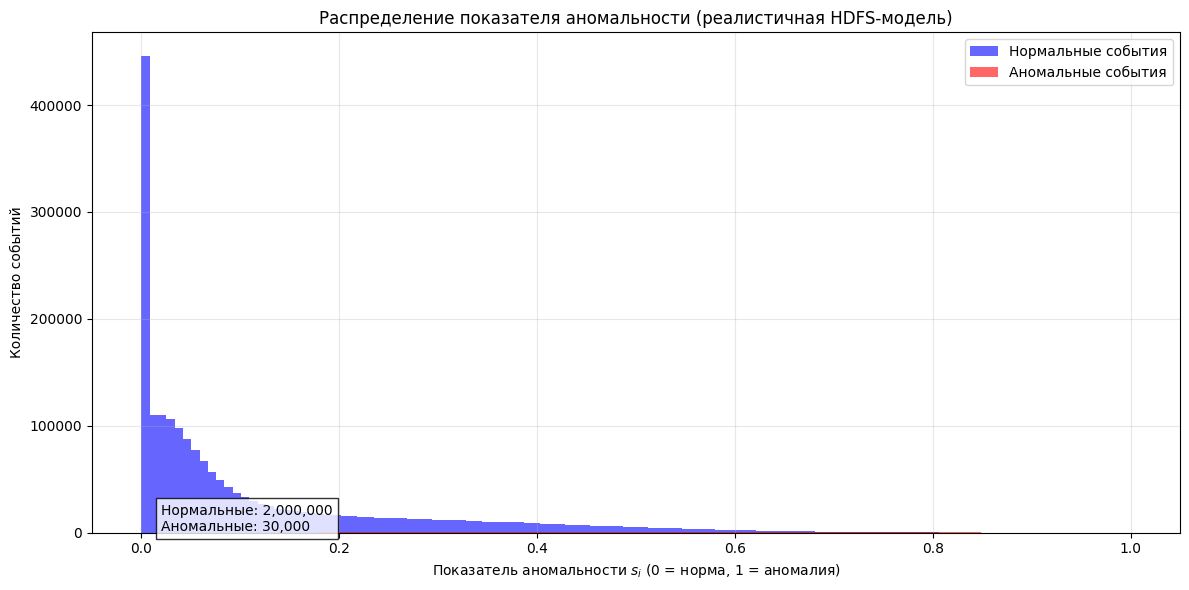
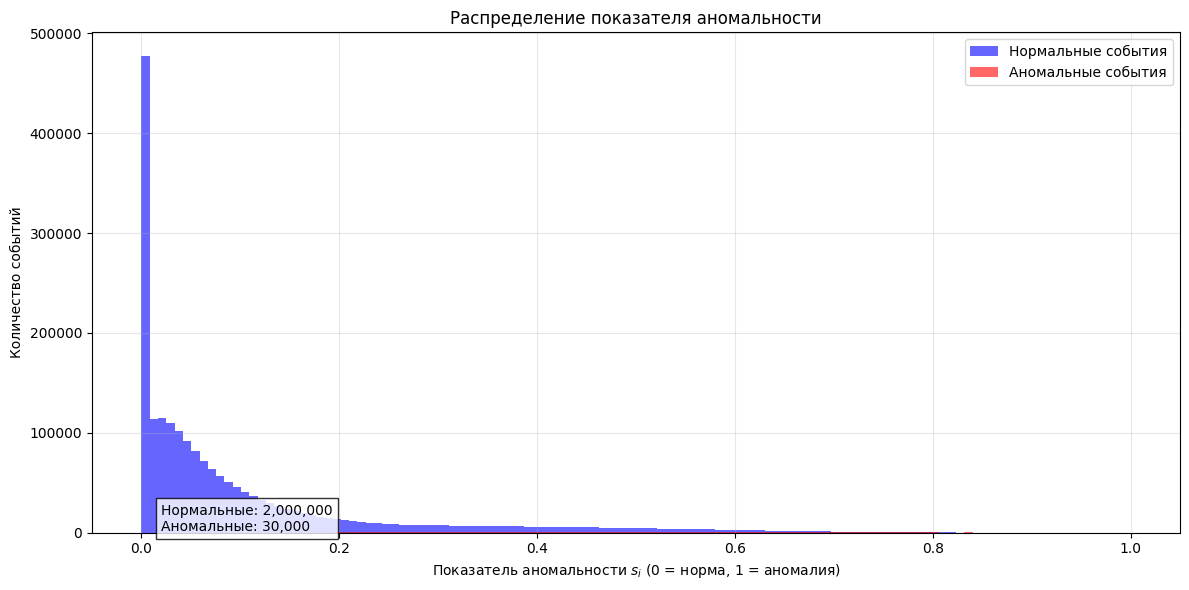
fix: пофиксил содержание

diff --git a/docs/contents/3-2-design/06-solution-mathematical-problem.tex b/docs/contents/3-2-design/06-solution-mathematical-problem.tex
@@ -1,9 +1,3 @@
-\section{Решения математической постановки задачи}
-
-В данном разделе рассматриваются методы и подходы, используемые для решения сформулированной математической задачи обнаружения аномалий в Kubernetes-кластере. На основе ранее выполненного анализа существующих методов и особенностей предметной области определяется практическая реализация предложенной модели, включая этапы подготовки данных, выбора архитектуры нейронной сети, обучения модели и оценки её качества.
-
-В рамках данного раздела подробно описываются этапы обработки audit-логов Kubernetes, формирование признакового пространства, выбор и настройка архитектур нейронных сетей, а также методы оценки качества обнаружения аномалий.
-
 \subsection{Предобработка и кодирование событий audit-логов}
 
 Целью предобработки является переход от сырой последовательности структурированных записей audit-лога $\mathcal{L} = \{e_1, \dots, e_T\}$ к единому признаковому представлению. Для обучения нейронной сети каждое событие $e_t$ кодируется в числовой вектор с помощью функции $\Phi$.
@@ -39,7 +33,7 @@
 
 Поле \texttt{userAgent} содержит описание клиентского приложения; для него имеет смысл использовать one-hot-кодирование для наиболее часто используемых агентов в компании, например \{\texttt{kubectl}, \texttt{helm}, \texttt{controller}, \texttt{browser}, \texttt{curl}, \texttt{other}\}, а все прочие значения приводить к этим типам регулярными выражениями. Ожидаемая размерность: $\dim(\Phi_{\text{userAgent}}) = 6$.
 
-Поле \texttt{objectRef.resource} вместе с \texttt{objectRef.subresource} образуют токен вида \texttt{resource/subresource} (например, \texttt{pods/status}). Такая строка кодируется с помощью hashing trick с размерностью $H_{\text{res}}=32$. Дополнительно вводится булев признак \texttt{sensitive}, указывающий на обращение к чувствительным ресурсам (например, \texttt{secrets}, \texttt{serviceaccounts}, \texttt{tokenreviews}). Ожидаемая размерность кодирования ресурсов: $\dim(\Phi_{\text{resource}})=H_{\text{res}}+1=33$.
+Поле \texttt{objectRef.resource} вместе с \texttt{objectRef.subresource} образуют токен вида \texttt{resource/subresource} (например, \texttt{pods/status}). Такая строка кодируется с помощью hashing trick с размерностью $H_{\text{res}}=64$. Дополнительно вводится булев признак \texttt{sensitive}, указывающий на обращение к чувствительным ресурсам (например, \texttt{secrets}, \texttt{serviceaccounts}, \texttt{tokenreviews}). Ожидаемая размерность кодирования ресурсов: $\dim(\Phi_{\text{resource}})=H_{\text{res}}+1=65$.
 
 Поле \texttt{objectRef.namespace} определяет пространство имён, к которому был выполнен запрос. Для кодирования используется набор булевых индикаторов:
 
@@ -211,7 +205,13 @@
 
 Умеренная зависимость наблюдается между признаками \texttt{username} и \texttt{userAgent} (0.38). Это может быть связано с тем, что различные пользователи или автоматизированные процессы используют характерные клиенты для взаимодействия с API Kubernetes, например утилиту \texttt{kubectl}, CI/CD системы или встроенные компоненты кластера.
 
-\subsection{Разработка и обучение моделей нейронных сетей для обнаружения аномалий}
+\subsection{Решения математической постановки задачи}
+
+В данном разделе рассматриваются методы и подходы, используемые для решения сформулированной математической задачи обнаружения аномалий в Kubernetes-кластере. На основе ранее выполненного анализа существующих методов и особенностей предметной области определяется практическая реализация предложенной модели, включая этапы подготовки данных, выбора архитектуры нейронной сети, обучения модели и оценки её качества.
+
+В рамках данного раздела подробно описываются этапы обучения различных архитектур НС и их сравнение.
+
+\subsubsection{Разработка и обучение моделей нейронных сетей для обнаружения аномалий}
 
 На основе подготовленных данных разрабатываются модели нейронных сетей, предназначенные для обнаружения аномалий в поведении пользователей и сервисных аккаунтов Kubernetes-кластера.
 
@@ -225,7 +225,7 @@
     \item Долгосрочная краткосрочная память (LSTM) на основе Autoencoder.
 \end{itemize}
 
-\subsubsection{Autoencoder}
+\textbf{Autoencoder}
 
 В данной работе автокодировщик используется для обнаружения аномалий в событиях audit-логов Kubernetes. После предобработки каждое событие представляется вектором признаков $x \in \mathbb{R}^d$, который подаётся на вход модели. Автокодировщик обучается восстанавливать нормальные события.
 
@@ -288,7 +288,7 @@
     \label{fig:ae_pr_curve}
 \end{figure}
 
-\subsubsection{RNN-Autoencoder}
+\textbf{RNN-Autoencoder}
 
 В данной работе RNN используется в архитектуре \textit{autoencoder} (RNN-AE), где слои \textit{encoder} и \textit{decoder} состоят из RNN-блоков. Такая структура позволяет моделировать последовательности событий audit-логов и выявлять аномалии, связанные с нетипичным поведением пользователей или сервисных аккаунтов.
 
@@ -353,7 +353,7 @@
     \label{fig:rnn_pr_curve}
 \end{figure}
 
-\subsubsection{LSTM-Autoencoder}
+\textbf{LSTM-Autoencoder}
 
 В данной работе LSTM применяется в архитектуре \textit{autoencoder} (LSTM-AE), где слои \textit{encoder} и \textit{decoder} состоят из LSTM-блоков. Такая структура позволяет учитывать временную последовательность событий audit-логов и выявлять аномальные паттерны поведения пользователей и сервисных аккаунтов.
 
@@ -415,7 +415,7 @@
     \label{fig:lstm_pr_curve}
 \end{figure}
 
-\subsection{Сравнительный анализ моделей и выбор оптимальной архитектуры}
+\subsubsection{Сравнительный анализ моделей и выбор оптимальной архитектуры}
 
 После обучения моделей различных архитектур проводится их сравнительный анализ по метрикам качества обнаружения аномалий. Основной задачей данного этапа является определение архитектуры нейронной сети, обеспечивающей наилучшие результаты обнаружения аномалий на тестовой выборке.
 

diff --git a/docs/contents/4-conclusion.tex b/docs/contents/4-conclusion.tex
@@ -1,0 +1,15 @@
+\conclusion
+
+В ходе выпускной квалификационной работы была разработана система обнаружения аномалий в Kubernetes-кластере на основе методов нейронных сетей, предназначенная для анализа audit-логов и выявления отклонений от нормального поведения в контейнерной среде.
+
+В исследовательской части были рассмотрены основные подходы к обнаружению аномалий в информационных системах, а также проанализированы особенности обеспечения безопасности в Kubernetes-кластерах. Был выполнен обзор статических методов, алгоритмов машинного обучения и нейросетевых подходов к анализу последовательностей событий. Установлено, что наибольший потенциал для решения поставленной задачи имеют методы глубокого обучения, способные учитывать временную структуру данных и выявлять сложные зависимости в журналируемых событиях. Отдельное внимание было уделено механизму audit-логирования Kubernetes, поскольку audit-логи API-сервера являются наиболее информативным источником данных для обнаружения аномалий в действиях пользователей, сервисных аккаунтов и компонентов кластера.
+
+В конструкторской части была обоснована постановка задачи обнаружения аномалий на основе анализа последовательностей audit-событий. В условиях отсутствия достаточного объёма размеченных данных для всех возможных аномальных сценариев наиболее целесообразным был признан подход на основе автоэнкодеров, позволяющий обучать модель на данных, описывающих нормальное поведение системы. В рамках работы были рассмотрены и сравнены архитектуры AE, RNN-AE и LSTM-AE, а также определены входные данные, критерии обучения и метрики качества. Проведённый анализ показал, что использование рекуррентных нейросетевых моделей, в частности LSTM-автоэнкодера, является наиболее эффективным для выявления аномалий в последовательностях audit-логов. По результатам экспериментов именно модель LSTM-AE продемонстрировала наилучшие значения качества, обеспечив $AUC_{PR} = 0{,}99962$, precision = 0{,}93097, recall = 1{,}00000 и F1-мера = 0{,}96425.
+
+В технологической части было разработано программное средство, реализующее полный цикл обработки audit-логов: от получения и предобработки данных до обучения модели и применения её для выявления аномалий. При разработке использовались современные программные инструменты и библиотечные средства, обеспечивающие надёжность, производительность и удобство сопровождения системы. Применение Python в качестве основного языка программирования, фреймворка FastAPI для серверной части, Uvicorn в качестве ASGI-сервера, PostgreSQL и SQLAlchemy для работы с данными, Celery для организации распределённых вычислений, а также PyTorch и scikit-learn для реализации и оценки нейросетевой модели позволило создать масштабируемое и технологически целостное решение. Разработанное приложение обеспечивает автоматизированный анализ журналов аудита и своевременное обнаружение аномальных событий в Kubernetes-кластере.
+
+В организационно-экономической части была выполнена оценка трудоёмкости, затрат на разработку и реализацию программного продукта, а также определена его экономическая целесообразность. Результаты расчётов показали, что разработка проекта требует значительных, но обоснованных ресурсов, а построенный календарный план и оценка затрат подтверждают реалистичность выполнения работ в установленные сроки. Проведённый анализ свидетельствует о том, что разработка данного решения является экономически оправданной и востребованной на рынке средств обеспечения информационной безопасности.
+
+В правовой части был проведён анализ нормативных правовых актов Российской Федерации, регулирующих вопросы информации, персональных данных и защиты информации. Установлено, что разрабатываемое программное средство соответствует требованиям действующего законодательства и может применяться в информационных системах при соблюдении необходимых организационных и технических мер защиты. Это подтверждает правомерность и практическую применимость предложенного решения.
+
+Таким образом, в ходе выполнения выпускной квалификационной работы была достигнута поставленная цель, а именно разработано средство обнаружения аномалий в Kubernetes-кластере на основе методов нейронных сетей, обеспечивающее высокую точность выявления аномальных событий. Полученные результаты подтверждают эффективность выбранного подхода и создают основу для дальнейшего развития системы, расширения функциональности и её интеграции в практические сценарии мониторинга и обеспечения безопасности контейнерных инфраструктур.

diff --git a/docs/contents/3-2-design/01-analysis-existing-approaches.tex b/docs/contents/3-2-design/01-analysis-existing-approaches.tex
@@ -1,4 +1,4 @@
-\section{Обзор и анализ существующих подходов и методов в области обнаружения аномалий}
+\subsection{Обзор и анализ существующих подходов и методов в области обнаружения аномалий}
 
 В данном разделе представлен обзор и сравнительный анализ современных подходов к обнаружению аномалий в контейнерных средах, с акцентом на решения, применяемые в Kubernetes-кластерах. Особое внимание уделяется методам, основанным на использовании нейронных сетей, поскольку именно они в последние годы демонстрируют наибольшую эффективность при обработке сложных данных, характерных для распределённых систем.
 
@@ -10,7 +10,7 @@
     \item использование рекуррентных нейронных сетей (LSTM) для моделирования последовательностей логов и выявления временных аномалий (DeepLog).
 \end{itemize}
 
-\subsection{GATAKU}
+\subsubsection{GATAKU}
 
 В работе \cite{Osswald_2025_Anomaly_Detection_Microservices_GNN} рассматривается использование графовых нейронных сетей (GNN) для обнаружения аномалий в кластерах Kubernetes. Авторы предлагают средство обнаружения аномалий на основе GNN в Kubernetes под названием GATAKU (GNN-based Anomaly Detection in Kubernetes). В качестве источников сетевых событий используются CNI-плагин Cilium \cite{cilium} и ingress-контроллер Traefik \cite{Traefik}. Главная цель работы — разработать модель, основанную на графовых нейронных сетях, способную эффективно и точно выявлять потенциальные угрозы и аномалии в кластере Kubernetes на основе сетевых событий.
 
@@ -52,7 +52,7 @@
 
 По результатам экспериментов GATAKU показала небольшое улучшение качества по сравнению с методами RF и SVM. Однако модель подвержена ограничениям по масштабируемости: построение графа (kNN), обучение GCN и обработка графовых структур создают значительную вычислительную нагрузку. Авторы отмечают, что в ресурсно-ограниченных средах применение GNN требует оптимизаций.
 
-\subsection{KubAnomaly}
+\subsubsection{KubAnomaly}
 
 Авторы исследования \cite{KubAnomaly} предлагают KubAnomaly — систему, обеспечивающую возможности мониторинга безопасности для обнаружения аномалий на платформе оркестрации Kubernetes. Данная система представляет собой модуль мониторинга контейнеров для Kubernetes с использованием НС для создания моделей классификации, которые усиливают способность системы выявлять аномальное поведение, такое как атаки на веб-сервисы, атаки, использующие распространённые и zero-day уязвимости, а также комбинированные атаки на различные компоненты кластера.
 
@@ -78,7 +78,7 @@ KubAnomaly реализует архитектуру с агентами на н
 
 Предложенная модель обнаружения аномалий KubAnomaly может выявлять аномальное поведение контейнеров непосредственно в Kubernetes. Она рассматривается как первая линия защиты для быстрого выявления отклонений. KubAnomaly демонстрирует, что агрегация событий в короткие временные окна и использование нейросетевой классификации дают практичный механизм обнаружения аномалий для контейнерных платформ с высокой точностью на подготовленных наборах данных. Результаты показали, что предложенная модель успешно может выявлять атаки на веб-сервисы с общей точностью до 96\%. При этом решение требует качественно размеченных данных и внимания к производительности агента. Авторы предлагают конфигурации агента и парсинга и показывают, что при аккуратном проектировании накладные расходы остаются приемлемыми.
 
-\subsection{DeepLog}
+\subsubsection{DeepLog}
 
 Авторы работы \cite{DeepLog} предлагают DeepLog — фреймворк для обнаружения аномалий в реальном времени и диагностики на основе системных логов. Идея состоит в том, чтобы рассматривать поток лог-сообщений как последовательность (аналогичную естественному языку), которая следует определенным шаблонам и правилам грамматики, и моделировать её с помощью рекуррентной нейросети LSTM. Данный подход позволяет DeepLog автоматически изучать шаблоны журналов на основе нормального исполнения и обнаруживать аномалии, когда шаблоны журналов отклоняются от модели, обученной на данных журналов при нормальном исполнении. Кроме того авторы предусмотрели постепенное обновление DeepLog в режиме онлайн, чтобы она могла адаптироваться к новым шаблонам журналов со временем.
 

diff --git a/docs/contents/3-1-research/04-kubernetes-arch.tex b/docs/contents/3-1-research/04-kubernetes-arch.tex
@@ -1,4 +1,4 @@
-\section{Архитектура Kubernetes}
+\subsection{Архитектура Kubernetes}
 
 Kubernetes представляет собой систему оркестрации контейнеризированных приложений с открытым исходным кодом, предназначенную для автоматизации процессов развертывания, масштабирования и управления контейнерами в распределённой инфраструктуре \cite{Kubernetes}. Кластер Kubernetes представляет собой совокупность физических или виртуальных машин, называемых узлами (nodes), которые совместно выполняют задачи управления и выполнения контейнеризированных приложений. На рисунке~\ref{fig:kubernetes_arch} представлена связь между компонентами Kubernetes.
 
@@ -16,7 +16,7 @@ Kubernetes представляет собой систему оркестрац
     \item \textbf{Рабочие узлы (Worker nodes)} — узлы, на которых непосредственно запускаются контейнеры приложений и выполняются рабочие нагрузки.
 \end{itemize}
 
-\subsection{Компоненты плоскости управления}
+\subsubsection{Компоненты плоскости управления}
 
 Плоскость управления Kubernetes (Control Plane) обеспечивает централизованное управление кластером и поддерживает согласованность его состояния. Основные компоненты плоскости управления включают следующие элементы.
 
@@ -39,7 +39,7 @@ Kubernetes представляет собой систему оркестрац
 
 \textbf{Cloud Controller Manager} используется в облачных средах и обеспечивает интеграцию Kubernetes с инфраструктурой облачного провайдера, включая управление сетевыми ресурсами, балансировщиками нагрузки и хранилищами.
 
-\subsection{Компоненты рабочих узлов}
+\subsubsection{Компоненты рабочих узлов}
 
 Рабочие узлы (Worker nodes) предназначены для непосредственного выполнения контейнеризированных приложений. Каждый рабочий узел включает несколько ключевых компонентов.
 
@@ -49,7 +49,7 @@ Kubernetes представляет собой систему оркестрац
 
 \textbf{Container Runtime} — среда выполнения контейнеров, используемая для запуска и управления контейнерами на узле. В современных кластерах Kubernetes наиболее распространёнными реализациями являются containerd и CRI-O.
 
-\subsection{Взаимодействие компонентов кластера}
+\subsubsection{Взаимодействие компонентов кластера}
 
 Взаимодействие между компонентами Kubernetes осуществляется через API-сервер, который выступает центральной точкой управления системой. Пользователи, автоматизированные сервисы и внутренние компоненты отправляют запросы к API-серверу, который проверяет их корректность и вносит изменения в состояние кластера, записывая их в хранилище etcd.
 

diff --git a/docs/contents/3-2-design/05-mathematical-statement.tex b/docs/contents/3-2-design/05-mathematical-statement.tex
@@ -1,4 +1,4 @@
-\section{Формулирование математической постановки задачи}
+\subsection{Формулирование математической постановки задачи}
 
 Аномалиями в поведении пользователей Kubernetes-кластера можно назвать действия, имеющие нетипичные признаки и (или) нетипичные паттерны взаимодействия с ресурсами кластера. Современные кластеры, развёрнутые на основе платформы Kubernetes, регистрируют все обращения к кластеру через механизм audit-логирования, реализованный в компоненте kube-apiserver \cite{KubernetesAudit}.
 
@@ -31,7 +31,7 @@
 
 Разделение задачи на две подзадачи позволяет отделить процесс обучения параметров модели от процесса выбора её структуры и обеспечить корректное сравнение различных архитектур по единому критерию качества.
 
-\subsection{Исходные данные}
+\subsubsection{Исходные данные}
 
 Каждая запись audit-лога представляет собой структурированное сообщение в формате JSON, содержащее сведения о выполненном запросе, субъекте, инициировавшем операцию, целевом ресурсе и результате выполнения запроса. Audit-лог можно представить в виде упорядоченной во времени последовательности событий, как показано в формуле~\eqref{eq:audit_log_sequence}.
 
@@ -100,7 +100,7 @@ $\alpha$ - структура сети,
 
 $\theta$ - обучаемые параметры.
 
-\subsection{Выбор параметров нейронной сети}
+\subsubsection{Выбор параметров нейронной сети}
 
 Входными данными подзадачи являются:
 
@@ -122,7 +122,7 @@ $\theta$ - обучаемые параметры.
 
 Результатом решения подзадачи является оптимальный набор параметров модели $\theta^*(\alpha)$.
 
-\subsection{Выбор структуры нейронной сети}
+\subsubsection{Выбор структуры нейронной сети}
 
 Входными данными подзадачи являются:
 

diff --git a/docs/contents/3-1-research/main.tex b/docs/contents/3-1-research/main.tex
@@ -1,6 +1,6 @@
-\structure{ИССЛЕДОВАТЕЛЬСКАЯ ЧАСТЬ}
+\section{ИССЛЕДОВАТЕЛЬСКАЯ ЧАСТЬ}
 
-\section{Обзор и анализ научной литературы в области обнаружения аномалий}
+\subsection{Обзор и анализ научной литературы в области обнаружения аномалий}
 
 В современных условиях платформа Kubernetes фактически стала промышленным стандартом для развёртывания, масштабирования и управления контейнеризованными приложениями. Вместе с такими преимуществами, как гибкость, масштабируемость и отказоустойчивость, использование Kubernetes сопровождается усложнением процессов обеспечения информационной безопасности.
 
@@ -27,7 +27,7 @@
 \input{contents/3-1-research/05-kubernetes-audit}
 
 
-\section{Выводы}
+\subsection{Выводы}
 
 В исследовательской части выпускной квалификационной работы был выполнен обзор и анализ предметной области обнаружения аномалий в контейнерных средах, а также рассмотрены особенности обеспечения безопасности в Kubernetes-кластерах. 
 

diff --git a/docs/contents/3-2-design/main.tex b/docs/contents/3-2-design/main.tex
@@ -1,4 +1,4 @@
-\structure{КОНСТРУКТОРСКАЯ ЧАСТЬ}
+\section{КОНСТРУКТОРСКАЯ ЧАСТЬ}
 
 \input{contents/3-2-design/01-analysis-existing-approaches}
 \input{contents/3-2-design/02-modeling-detection-approaches}
@@ -7,7 +7,7 @@
 \input{contents/3-2-design/05-mathematical-statement}
 \input{contents/3-2-design/06-solution-mathematical-problem}
 
-\section{Выводы}
+\subsection{Выводы}
 
 В конструкторской части выпускной квалификационной работы была последовательно решена задача разработки средства обнаружения аномалий в Kubernetes-кластере на основе нейронных сетей. На первом этапе был выполнен обзор и анализ существующих подходов и методов обнаружения аномалий в контейнерных средах, в ходе которого были рассмотрены несколько современных подходов, используемых в кластерах Kubernetes.
 

diff --git a/docs/contents/3-3-technological/main.tex b/docs/contents/3-3-technological/main.tex
@@ -1,11 +1,11 @@
-\structure{ТЕХНОЛОГИЧЕСКАЯ ЧАСТЬ}
+\section{ТЕХНОЛОГИЧЕСКАЯ ЧАСТЬ}
 
 \input{contents/3-3-technological/01-technology}
 \input{contents/3-3-technological/02-process-implementation}
 \input{contents/3-3-technological/03-software}
 \input{contents/3-3-technological/04-testing}
 
-\section{Выводы}
+\subsection{Выводы}
 
 В технологической части выпускной квалификационной работы был обоснован выбор программных средств и архитектурных решений, используемых для разработки системы обнаружения аномалий в Kubernetes-кластере. В качестве основного языка программирования выбран Python, обладающий развитой экосистемой библиотек для анализа данных и машинного обучения, а также широкими возможностями для построения распределённых систем.
 

diff --git a/docs/contents/3-2-design/03-selection-nn-based-method.tex b/docs/contents/3-2-design/03-selection-nn-based-method.tex
@@ -1,4 +1,4 @@
-\section{Выбор используемого метода по обнаружению аномалий в контейнерных средах}
+\subsection{Выбор используемого метода по обнаружению аномалий в контейнерных средах}
 
 На основе проведённого анализа существующих подходов и методов обнаружения аномалий в распределённых и контейнерных средах можно сделать вывод о том, что наиболее перспективными являются методы, основанные на нейронных сетях. Это обусловлено тем, что такие методы способны выявлять сложные нелинейные зависимости в данных, учитывать временные и контекстные связи между событиями, а также адаптироваться к изменяющемуся поведению системы.
 

diff --git a/docs/contents/3-1-research/05-kubernetes-audit.tex b/docs/contents/3-1-research/05-kubernetes-audit.tex
@@ -1,4 +1,4 @@
-\section{Механизм аудита и структура audit-логов Kubernetes}
+\subsection{Механизм аудита и структура audit-логов Kubernetes}
 
 Кластер проверяет действия, совершаемые пользователями, приложениями, использующими API Kubernetes, и самой плоскостью управления. Каждый запрос на различных этапах его выполнения создаёт событие аудита, которое затем обрабатывается в соответствии с определённой политикой и записывается в бэкэнд. Политика определяет, что именно записывается, а бэкэнды сохраняют записи. В настоящее время в качестве бэкендов используются файловая система и веб-хуки \cite{KubernetesAudit}.
 

diff --git a/docs/contents/3-2-design/02-modeling-detection-approaches.tex b/docs/contents/3-2-design/02-modeling-detection-approaches.tex
@@ -1,4 +1,4 @@
-\section{Моделирование последовательностного подхода обнаружения аномалий}
+\subsection{Моделирование последовательностного подхода обнаружения аномалий}
 
 Для демонстрации работоспособности подхода по обнаружению аномалий в Kubernetes-кластере использован публичный набор данных HDFS\_v1 из коллекции LogHub. Данный набор содержит более 11 миллионов лог-записей, сгруппированных по идентификатору блока, и включает разметку нормальных и аномальных трасс выполнения системы \cite{HDFS_dataset}.
 

diff --git a/docs/contents/3-2-design/04-arch.tex b/docs/contents/3-2-design/04-arch.tex
@@ -1,4 +1,4 @@
-\section{Архитектура средства обнаружения аномалий}
+\subsection{Архитектура средства обнаружения аномалий}
 
 Разрабатываемое программное средство должно быть ориентировано на работу в условиях распределённой инфраструктуры и учитывать особенности функционирования Kubernetes-кластера, в частности высокую динамичность среды, большое количество генерируемых событий и необходимость обработки потоковых данных в режиме, близком к реальному времени.
 
